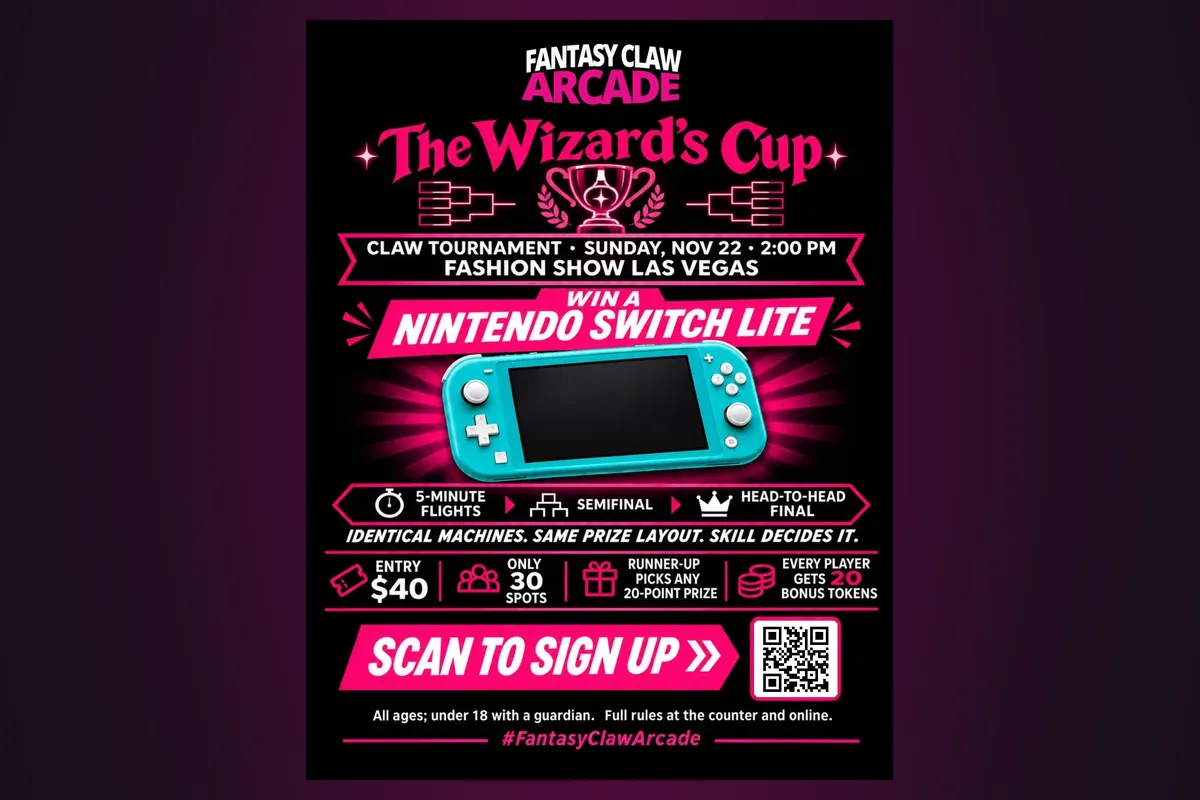
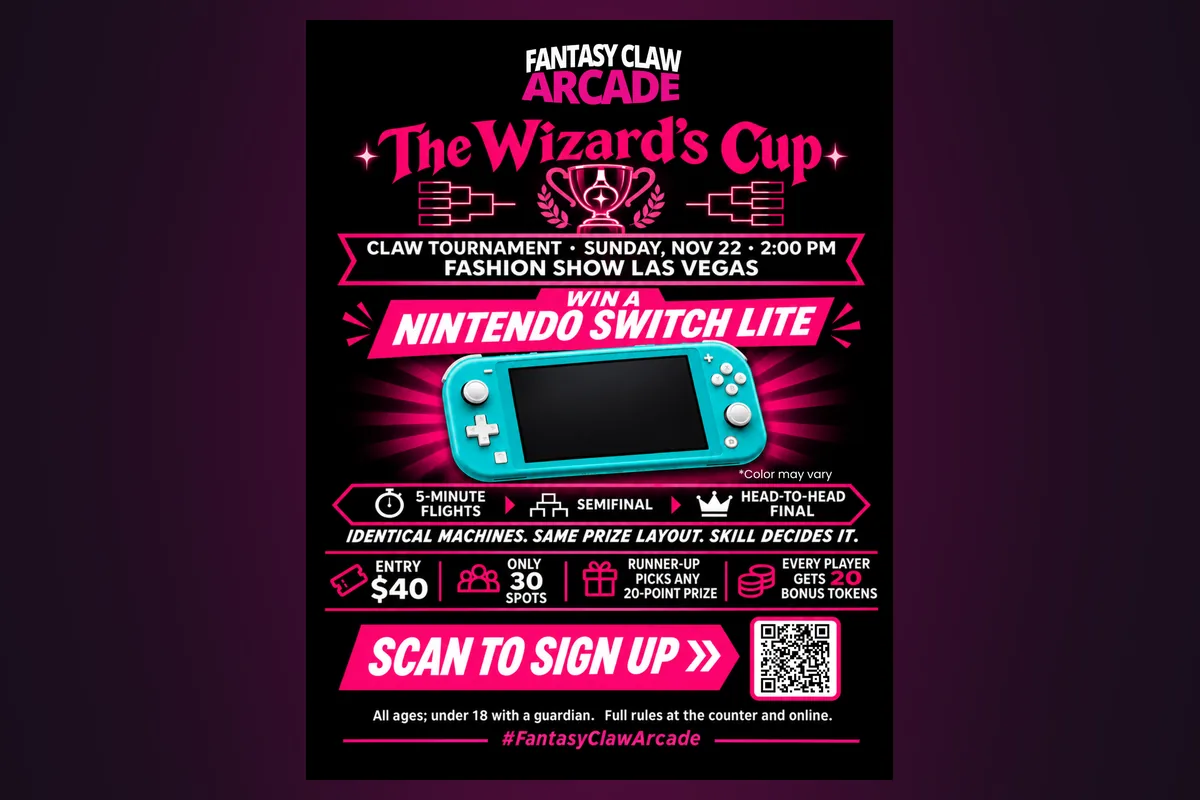
Wizard's Cup: use Elliot's updated poster (working QR, 'Color may vary') on the post, tournament page and promotions
Claude-Session: https://claude.ai/code/session_01Tt73fKx9TpfK2hJRWRgKJ1

Changed region(s): [[0.6167, 0.7812, 0.7092, 0.875], [0.6167, 0.5625, 0.6475, 0.625]]

diff --git a/site/post/wizards-cup-las-vegas-claw-machine-tournament.html b/site/post/wizards-cup-las-vegas-claw-machine-tournament.html
@@ -48,7 +48,7 @@
       <p class="eyebrow"><a href="/blog">Blog</a></p>
       <h1>The Wizard’s Cup: Las Vegas Claw Machine Tournament at Fashion Show</h1>
       <p class="byline">Elliot Cole · Nov 11, 2026 · 4 min read</p>
-      <figure class="post-hero post-hero-poster"><a href="https://square.link/u/pT2yNBbV" target="_blank" rel="noopener" aria-label="Sign up for The Wizard’s Cup on Square"><img src="/assets/photos/fantasy-claw-arcade-wizards-cup-tournament-nov-2026.webp" alt="The Wizard’s Cup claw tournament poster: Sunday, Nov. 22 at 2:00 PM at Fashion Show Las Vegas. Win a Nintendo Switch Lite. $40 entry, only 30 spots." width="900" height="1165" fetchpriority="high"></a></figure>
+      <figure class="post-hero post-hero-poster"><a href="https://square.link/u/pT2yNBbV" target="_blank" rel="noopener" aria-label="Sign up for The Wizard’s Cup on Square"><img src="/assets/photos/fantasy-claw-arcade-wizards-cup-tournament-nov-2026.webp" alt="The Wizard’s Cup claw tournament poster: Sunday, Nov. 22 at 2:00 PM at Fashion Show Las Vegas. Win a Nintendo Switch Lite. $40 entry, only 30 spots." width="1200" height="1553" fetchpriority="high"></a></figure>
       <div class="prose">
         <p>You know the moment. The claw lines up, the grip closes, and for a second everything rides on whether the prize makes it to the chute. On Sunday, November 22, that moment gets a scoreboard.</p>
         <p>The Wizard’s Cup is Fantasy Claw Arcade’s first-ever claw machine tournament, hosted at our <a href="/lasvegas-fashionshow">Fashion Show Las Vegas</a> location. Thirty players. Six identical machines. One champion takes home a Nintendo Switch Lite.</p>

diff --git a/site/tournament.html b/site/tournament.html
@@ -53,7 +53,7 @@
   <section class="band">
     <div class="wrap promos">
       <div class="promo">
-        <figure class="promo-art"><img src="/assets/photos/fantasy-claw-arcade-wizards-cup-tournament-nov-2026.webp" alt="The Wizard’s Cup claw tournament, Sunday, Nov. 22 at 2:00 PM at Fashion Show Las Vegas. Win a Nintendo Switch Lite. 5-minute flights, a semifinal and a head-to-head final. Entry $40, only 30 spots. Runner-up picks any 20-point prize. Every player gets 20 bonus tokens." width="900" height="1165"></figure>
+        <figure class="promo-art"><img src="/assets/photos/fantasy-claw-arcade-wizards-cup-tournament-nov-2026.webp" alt="The Wizard’s Cup claw tournament, Sunday, Nov. 22 at 2:00 PM at Fashion Show Las Vegas. Win a Nintendo Switch Lite. 5-minute flights, a semifinal and a head-to-head final. Entry $40, only 30 spots. Runner-up picks any 20-point prize. Every player gets 20 bonus tokens." width="1200" height="1553"></figure>
         <div class="copy">
           <p class="eyebrow">Sunday, Nov. 22, 2026 · 2:00 PM · Fashion Show Mall</p>
           <h2>Win a Nintendo Switch Lite</h2>

diff --git a/site/special-promotions.html b/site/special-promotions.html
@@ -62,7 +62,7 @@
         </div>
       </div>
       <div class="promo" data-promo data-start="2026-11-07" data-end="2026-11-22">
-        <figure class="promo-art"><a href="/tournament"><img src="/assets/photos/fantasy-claw-arcade-wizards-cup-tournament-nov-2026.webp" alt="The Wizard’s Cup claw tournament, Sunday, Nov. 22 at 2:00 PM at Fashion Show Las Vegas. Win a Nintendo Switch Lite. Entry $40, only 30 spots." width="900" height="1165" loading="lazy"></a></figure>
+        <figure class="promo-art"><a href="/tournament"><img src="/assets/photos/fantasy-claw-arcade-wizards-cup-tournament-nov-2026.webp" alt="The Wizard’s Cup claw tournament, Sunday, Nov. 22 at 2:00 PM at Fashion Show Las Vegas. Win a Nintendo Switch Lite. Entry $40, only 30 spots." width="1200" height="1553" loading="lazy"></a></figure>
         <div class="copy">
           <p class="eyebrow" data-promo-label>Claw tournament · Sunday, Nov. 22, 2026</p>
           <h2>The Wizard’s Cup: Win a Nintendo Switch Lite</h2>
